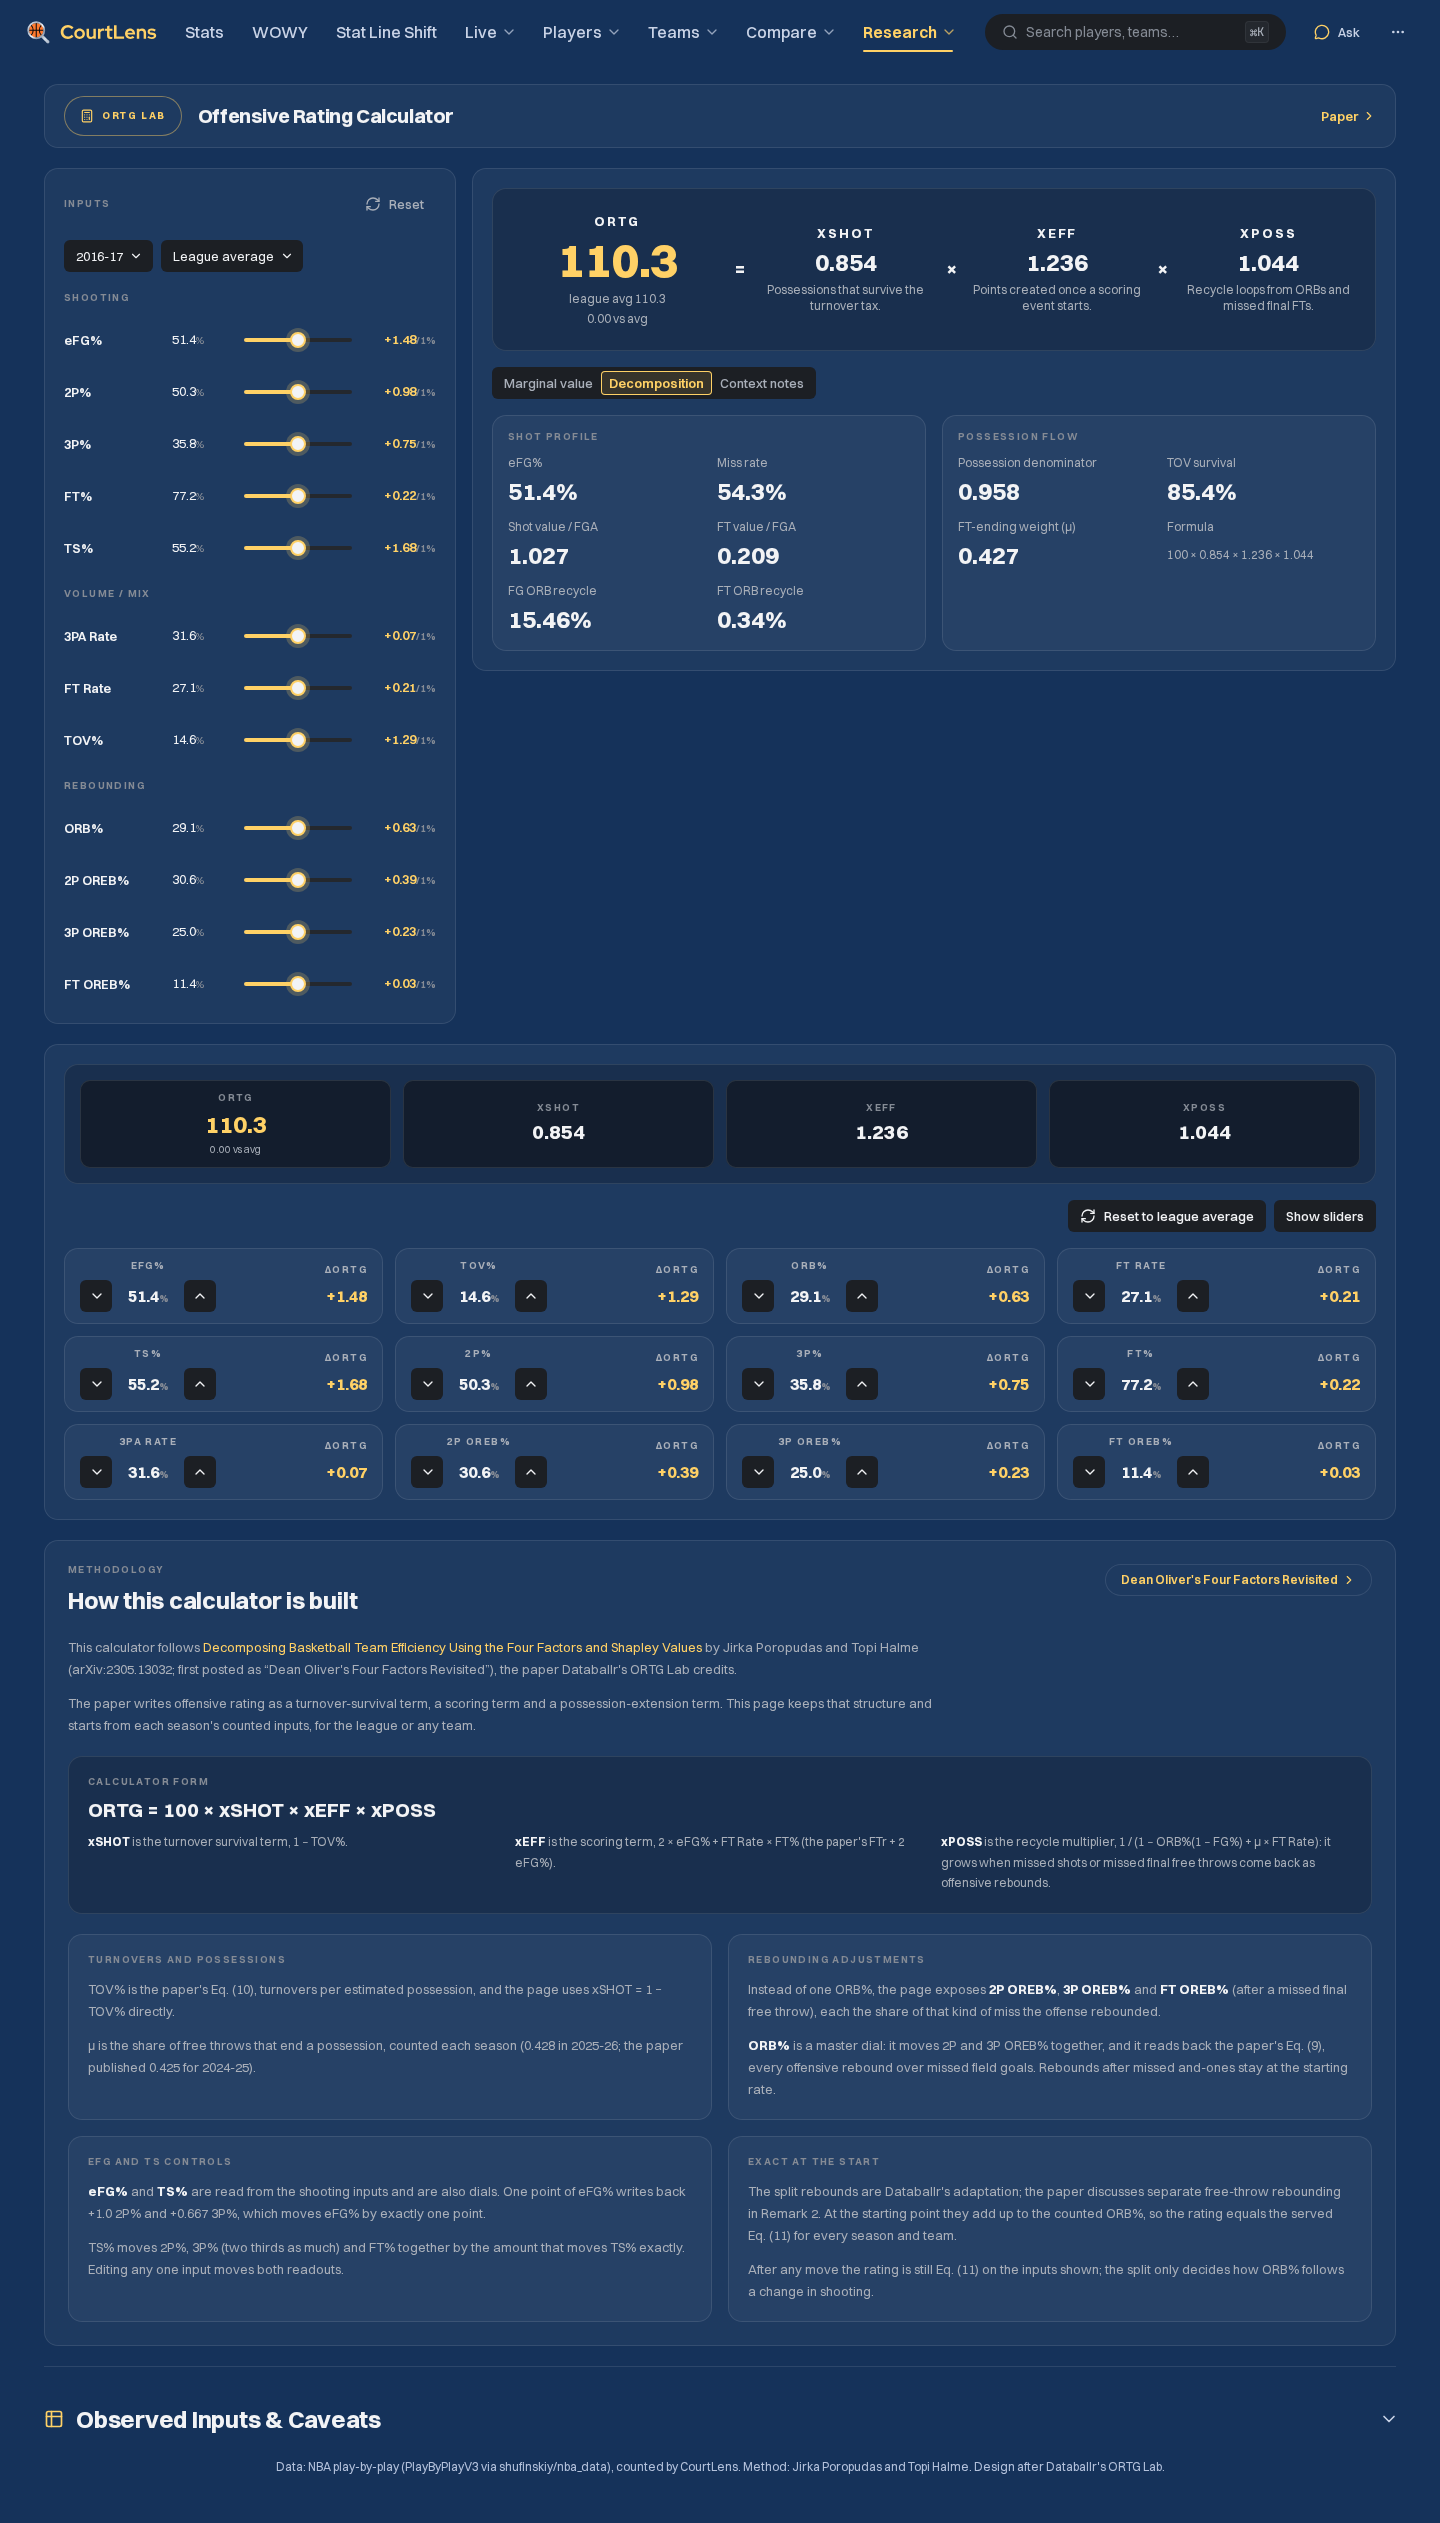
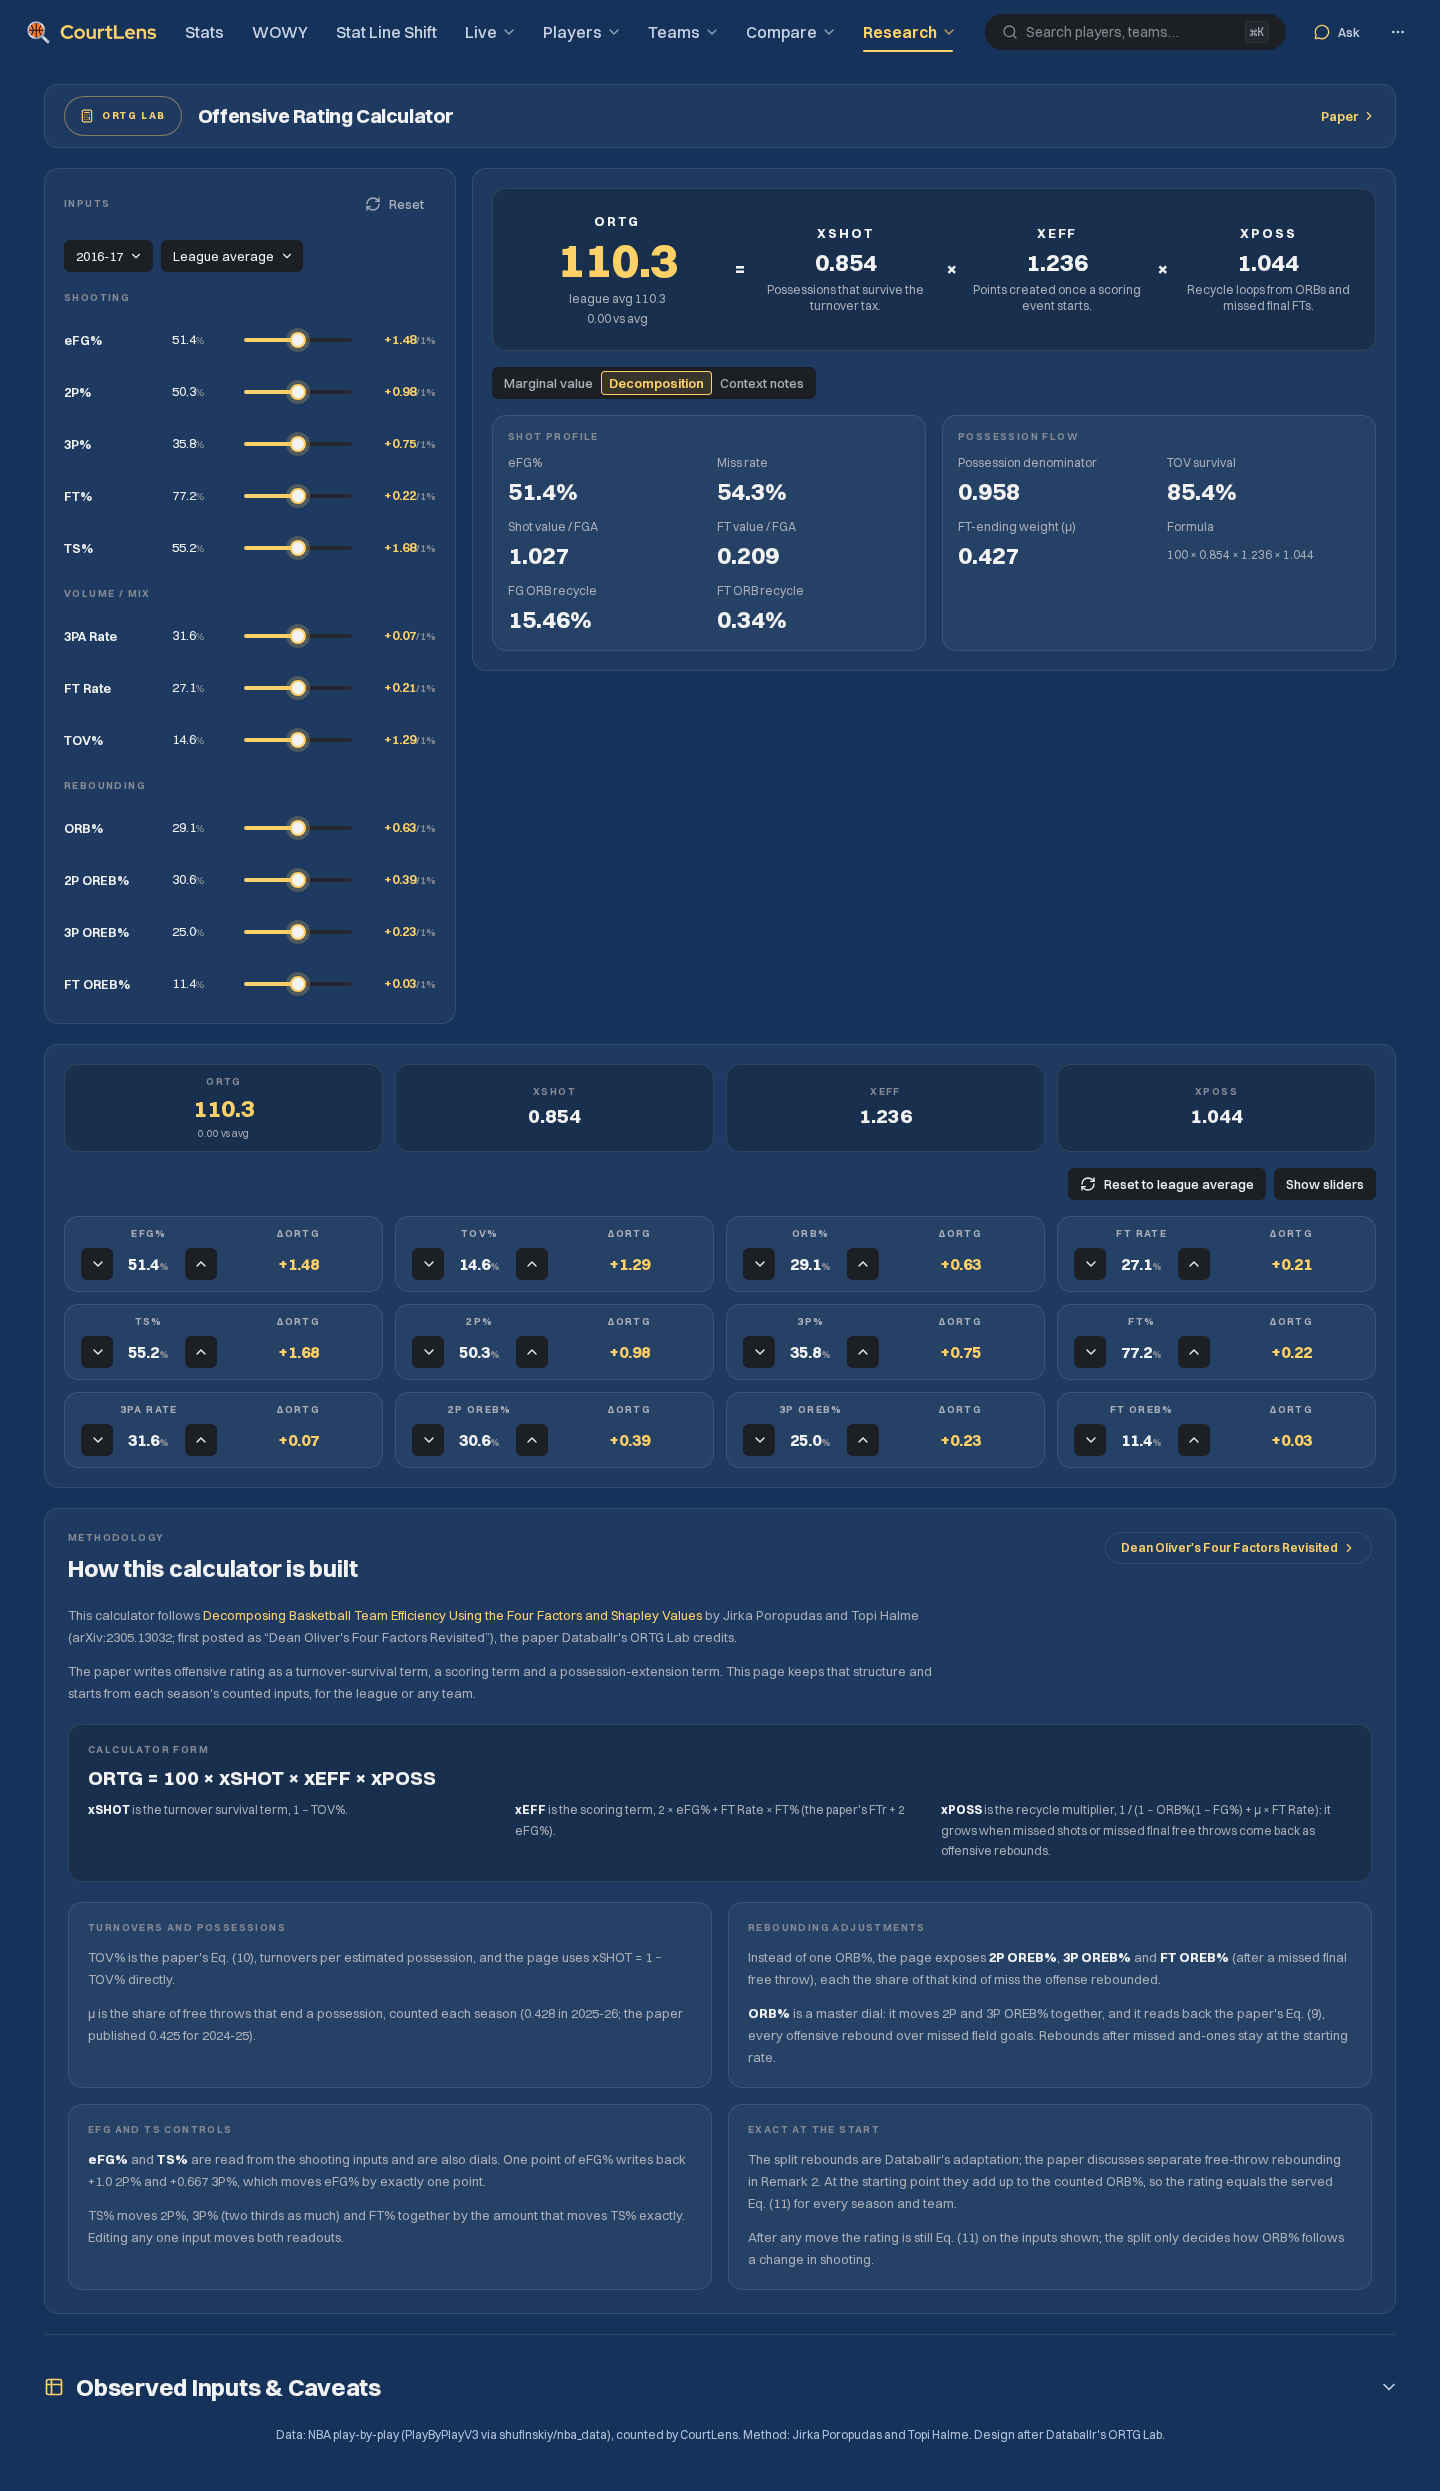
fix(design): RD02 rounds 2-3, one level of nesting for the board tiles and balanced stepper cards

diff --git a/dashboard/components/ortg-lab-view.css b/dashboard/components/ortg-lab-view.css
@@ -72,8 +72,9 @@
   .ol-notes strong { color: var(--color-text); }
 
   /* Stepper board. */
-  .ol-tiles { display: grid; grid-template-columns: repeat(4, minmax(0, 1fr)); gap: var(--space-3); padding: var(--space-4); }
-  .ol-tile { display: grid; justify-items: center; align-content: center; gap: var(--space-1); min-height: 84px; padding: var(--space-3); border-radius: var(--radius-md); background: color-mix(in srgb, var(--color-surface-0) 55%, transparent); box-shadow: inset 0 0 0 1px var(--rs-rim); text-align: center; }
+  /* Round 2 (owner): one level of nesting, so the tiles sit straight on the board panel as its wells. */
+  .ol-tiles { display: grid; grid-template-columns: repeat(4, minmax(0, 1fr)); gap: var(--space-3); }
+  .ol-tile { display: grid; justify-items: center; align-content: center; gap: var(--space-1); min-height: 84px; padding: var(--space-3); border-radius: var(--radius-lg); background: var(--rs-well); box-shadow: inset 0 0 0 1px var(--rs-rim); text-align: center; }
   .ol-tile-value { color: var(--color-text); font-size: var(--text-xl); line-height: var(--text-xl-lh); font-weight: 700; font-variant-numeric: tabular-nums; }
   .ol-tile-ortg { color: var(--color-accent); font-size: var(--text-2xl); line-height: var(--text-2xl-lh); }
   .ol-vs-sm { font-size: var(--text-2xs); line-height: var(--text-2xs-lh); }
@@ -84,6 +85,17 @@
   .ol-step-main { display: grid; justify-items: center; gap: var(--space-2); }
   .ol-step-side { display: grid; justify-items: end; gap: var(--space-2); }
   .ol-step .ol-kicker { color: var(--color-text-secondary); }
+  /* Round 3 (owner): balanced halves. Two equal columns, each centred; the labels share the first row and the
+     control and ΔORTG share the second, so both halves sit level. A phone keeps the stacked card below. */
+  @media (min-width: 701px) {
+    .ol-step { grid-template-columns: repeat(2, minmax(0, 1fr)); grid-template-rows: auto auto; row-gap: var(--space-2); column-gap: var(--space-3); }
+    .ol-step-main, .ol-step-side { display: contents; }
+    .ol-step-main > *, .ol-step-side > * { justify-self: center; align-self: center; }
+    .ol-step-main > .ol-kicker { grid-area: 1 / 1; }
+    .ol-step-control { grid-area: 2 / 1; }
+    .ol-step-side > .ol-kicker { grid-area: 1 / 2; }
+    .ol-step-delta { grid-area: 2 / 2; }
+  }
   .ol-step-control { display: inline-flex; align-items: center; gap: var(--space-2); }
   .ol-step-value { min-width: 56px; font-size: var(--text-lg); font-weight: 700; text-align: center; }
   .ol-step-delta { color: var(--color-text-tertiary); font-size: var(--text-lg); line-height: var(--text-lg-lh); font-weight: 700; font-variant-numeric: tabular-nums; }

diff --git a/dashboard/components/ortg-lab-view.tsx b/dashboard/components/ortg-lab-view.tsx
@@ -175,7 +175,7 @@ function Board({ b, state, onSet, onReset }: { b: Baseline; state: LabState; onS
     <span className="ol-kicker">{label}</span><strong className={label === "ORTG" ? "ol-tile-value ol-tile-ortg" : "ol-tile-value"} data-field={field} data-value={raw}>{value}</strong>{extra}
   </div>;
   return <section className="ol-panel ol-board" aria-label="Stepper board">
-    <div className="ol-well ol-tiles">
+    <div className="ol-tiles">
       {tile("ORTG", fixed(t.ortg, 1), "ortg", t.ortg, <span className="ol-vs ol-vs-sm" data-identity={tone(diff)}>{signed(diff, 2)} vs avg</span>)}
       {tile("xSHOT", fixed(t.xshot, 3), "xshot", t.xshot)}
       {tile("xEFF", fixed(t.xeff, 3), "xeff", t.xeff)}

diff --git a/docs/evidence/research/design-RD02/README.md b/docs/evidence/research/design-RD02/README.md
@@ -79,3 +79,25 @@ Noted, not changed: FT ORB recycle reads about 0.4% per FGA here against the ref
 rebounds of missed final free throws per FGA from play-by-play; the reference site's figure uses its own form. The owner's :8000 and
 :3100 were not restarted (3100 answered 200 throughout; its stale CSS was refreshed by toggling the import, as recorded).
 3180 and 4180 were stopped and the sandbox deleted.
+
+## Rounds 2 and 3 (owner, 2026-11-07)
+
+Instructions, from screenshots of the stepper board: (2) *"For ORTG, xSHOT, xEFF, xPOSS there is too much nesting. Only one
+nest deep."* (3) *"Balance the left and right columns in the container, it looks a little weird."* Design only (CSS and one
+wrapper class); no numbers changed.
+
+| Change | Detail |
+| --- | --- |
+| One level of nesting | The four tiles sat in a well inside the board panel (panel → well → tile). The well is removed; the tiles are the panel's wells (`--rs-well`, rim, 14 px radius) |
+| Balanced stepper cards | Two equal columns at 701 px and up, each centred; the label and ΔORTG share the first row, the − value + control and the ΔORTG figure the second. The phone keeps round 1's stacked card |
+
+| Check | Result |
+| --- | --- |
+| Lint, typecheck, Vitest | 0 / 0; clean; 812 passed |
+| Page Playwright ×3 | 60/60 |
+| Full Playwright (sandbox, final build) | 594 passed, 17 skipped, 0 failed. An earlier run in this round had 1 failure, `projected-impact.spec.ts` "no frozen row" (the known flake, an untouched page); alone it passed 10/10. Visual baselines unaffected (the board is below both baselines' viewport) |
+| Real data | 1,596 values in the same three scenes at 1440 and 390: 0 mismatches, 0 console errors, 0 overflow, 0 broken images, 0 phone controls under 40 px; the `calculator-*` scene shots are refreshed |
+| Screenshots (viewed) | [`calculator-board-r3-1440.png`](calculator-board-r3-1440.png), [`calculator-board-r3-390.png`](calculator-board-r3-390.png), and the refreshed scene shots above |
+
+:3100 served stale CSS twice; refreshed by toggling the import. :8000 and :3100 were not restarted; 3180/4180 stopped and the
+sandbox deleted.

diff --git a/docs/research-progress.md b/docs/research-progress.md
@@ -473,3 +473,15 @@ is served for the league and each team, and the lab equals the served Eq. (11) a
   0 mismatches, 0 console errors, 0 overflow, 0 broken images, outputs equal to Eq. (11).
 - **Not done.** The owner's review and ✅.
 
+## 2026-11-07 — RD02 rounds 2–3: one level of nesting, balanced stepper cards
+
+[Evidence](evidence/research/design-RD02/README.md#rounds-2-and-3-owner-2026-11-07). Owner: the ORTG / xSHOT / xEFF / xPOSS
+tiles are nested too deep (one level only); balance the stepper cards' left and right columns. Design only.
+
+- **Change.** The board's tiles sit straight on its panel as wells (the extra well is gone). Stepper cards are two equal,
+  centred columns with the labels on one row and the control and ΔORTG on the next; phones keep the stacked card.
+- **Checks.** Lint 0/0, typecheck, Vitest 812; page specs 60/60 ×3; full Playwright 594 passed, 0 failed on the final build
+  (one earlier run hit the known Projected Impact flake, 10/10 alone); real data 1,596 values, 0 mismatches, 0 console errors,
+  0 overflow, 0 broken images.
+- **Not done.** The owner's review and ✅.
+

diff --git a/docs/research-design-catalog.md b/docs/research-design-catalog.md
@@ -248,6 +248,13 @@ answered the five questions under the gap list with "use your best judgement"):
 
 Evidence: [`design-RD02`](evidence/research/design-RD02/README.md).
 
+Instructions (owner, 2026-11-07, round 2; screenshot: the stepper board's ORTG / xSHOT / xEFF / xPOSS tiles):
+2. [x] For ORTG, xSHOT, xEFF, xPOSS there is too much nesting. Only one nest deep.
+   — The extra well around the four tiles is gone: panel → tile, the tiles as the panel's wells.
+3. [x] (Screenshot: the stepper cards.) Balance the left and right columns in the container, it looks a little weird.
+   — Each stepper card is two equal columns, each centred; the label and ΔORTG share one row and the control and its
+   figure the next. A phone keeps the stacked two-column board.
+
 ## RD03 zTS — ⬜
 
 - **Now:** About and Top 200 replicated, a Player tab built without a reference; registered test: zTS
